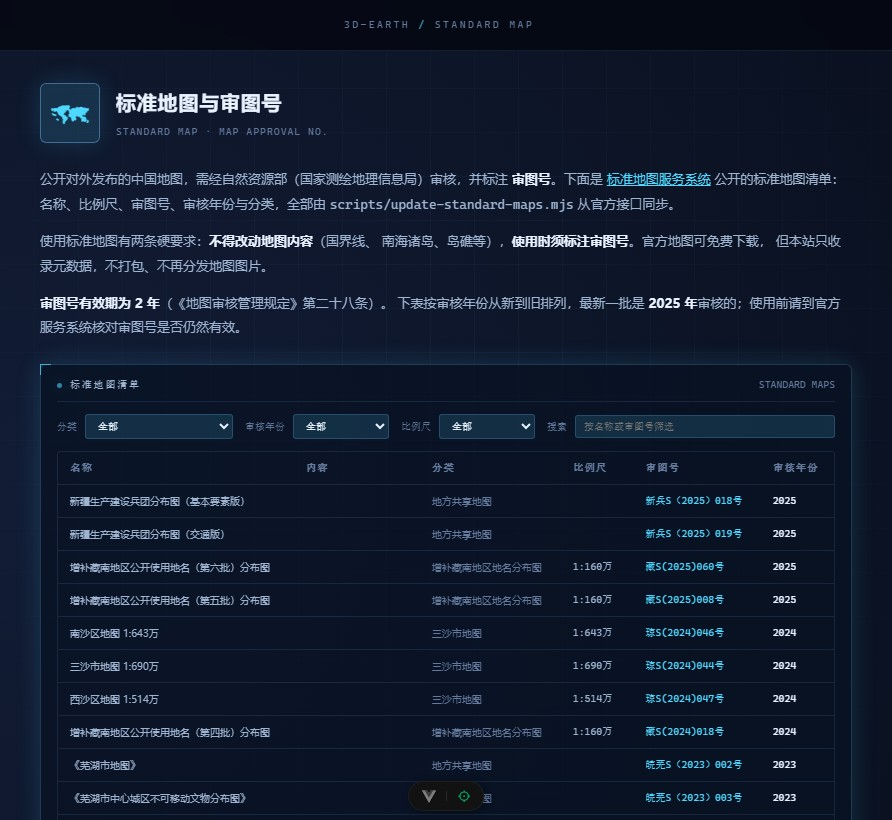
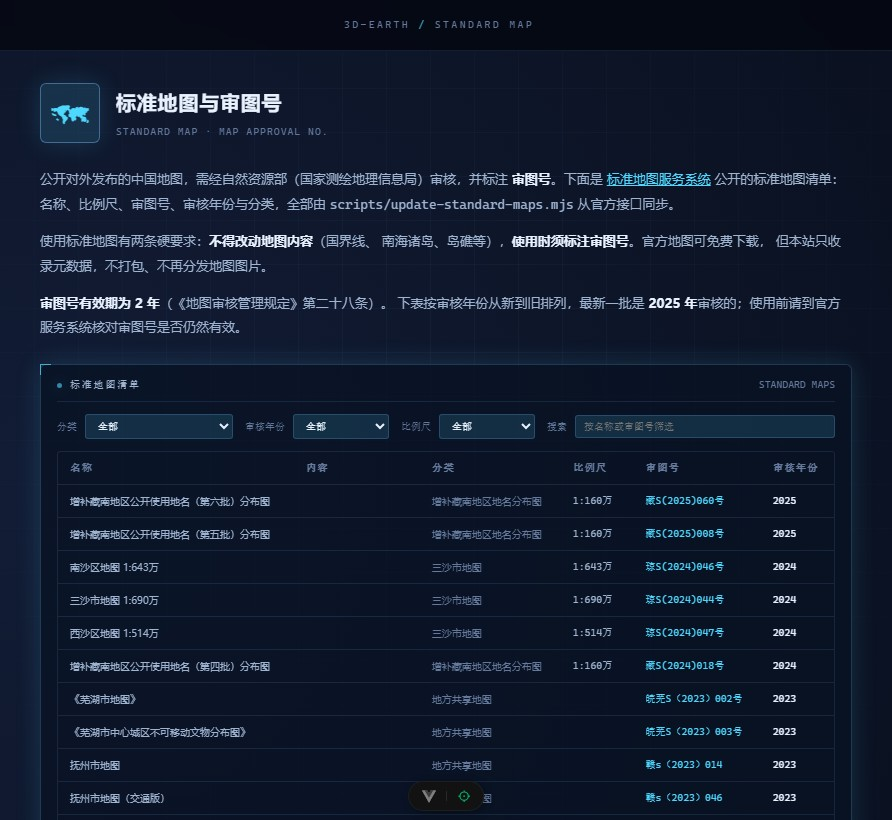
fix: 标准地图清单排除非省级行政区的条目
上游「地方共享地图」分类里有新疆生产建设兵团的两张图，
本项目不收录。

- 同步脚本加 EXCLUDE_PATTERNS，按名称与审图号双重匹配排除，
  上游新增同类条目时会被自动挡掉
- 清单从 2047 条降到 2045 条，最新审核年份仍是 2025
- standardMaps.spec.js 加对应断言

diff --git a/src/__tests__/standardMaps.spec.js b/src/__tests__/standardMaps.spec.js
@@ -27,8 +27,9 @@ describe('标准地图与审图号清单', () => {
   })
 
   it('是全量而不是抽样：条目数不低于全部分类的量级', () => {
-    // 上游全库 2000 条量级（19 个分类）。分页逻辑写错时这里会直接红。
-    expect(maps.length).toBeGreaterThanOrEqual(2000)
+    // 上游全库 2000 条量级。分页逻辑写错时这里会直接红。
+    // 下限比实收量留出余量：清单条目数会随上游增删浮动，卡死在一个数上会被正常波动误伤。
+    expect(maps.length).toBeGreaterThanOrEqual(1900)
   })
 
   it('收录了最新的几批标准地图，不会退化到只剩早期年份', () => {

diff --git a/LICENSES.md b/LICENSES.md
@@ -67,7 +67,7 @@
 
 | 内容 | 来源 | 说明 |
 |---|---|---|
-| 2047 张标准地图的元数据：名称、内容、比例尺、开本、**审图号**、审核年份、分类 | [自然资源部主管的标准地图服务系统](http://bzdt.ch.mnr.gov.cn/) | 由 `scripts/update-standard-maps.mjs` 同步（覆盖全部 19 个分类）；**只收录元数据，不下载也不分发地图图片** |
+| 2045 张标准地图的元数据：名称、内容、比例尺、开本、**审图号**、审核年份、分类 | [自然资源部主管的标准地图服务系统](http://bzdt.ch.mnr.gov.cn/) | 由 `scripts/update-standard-maps.mjs` 同步（覆盖全部 19 个分类）；**只收录元数据，不下载也不分发地图图片** |
 
 清单按**审核年份从新到旧**排列，当前最新一批是 **2025 年**审核的。
 其中 2 张官方未公布审图号，页面上以「—」标出。

diff --git a/README.md b/README.md
@@ -30,7 +30,7 @@
 | 🏷 球面省名 | 省名钉在球面上，屏幕空间自动去重叠，放大后小省逐个浮现 |
 | 📇 详情页 | 行政区划代码、中心坐标、球面实算面积、省情简介与标签 |
 | 🗒 审图号清单 | 2000+ 张官方标准地图的审图号同步到站，可查、可溯源 |
-| 🧪 有测试 | 295 个用例，CI 在每次 push 与 PR 上自动验证 |
+| 🧪 有测试 | 296 个用例，CI 在每次 push 与 PR 上自动验证 |
 
 ## 界面
 
